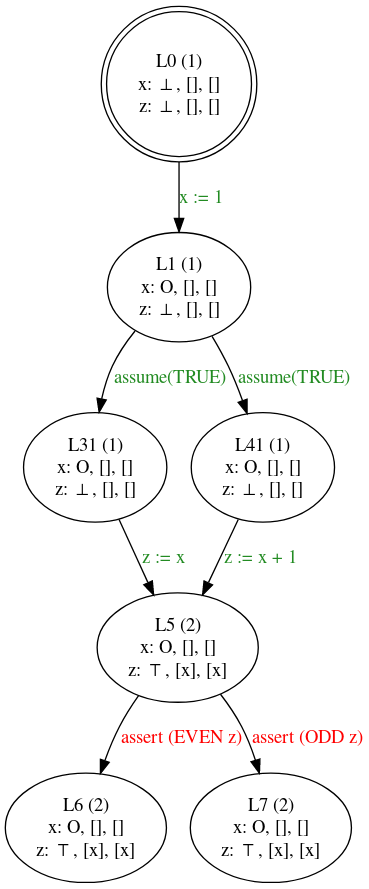
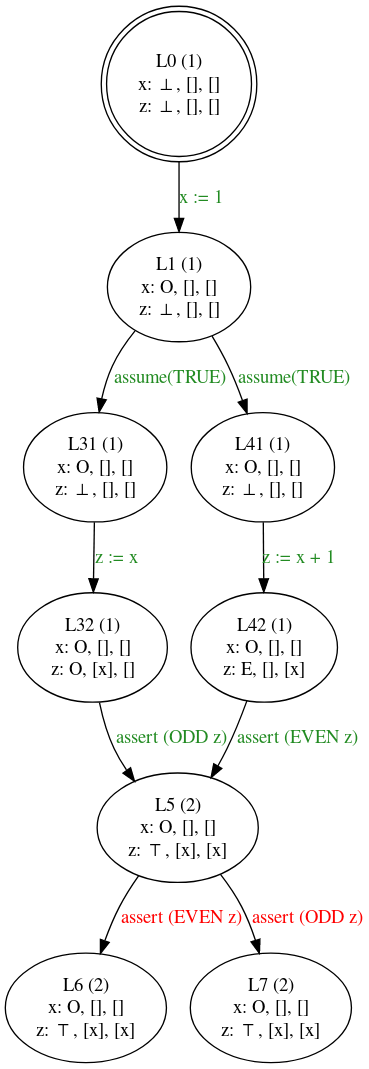
Add parity example 5

diff --git a/analyzenumerical/parity.py b/analyzenumerical/parity.py
@@ -143,6 +143,15 @@ class ParityState(abstract.AbstractState):
 
         return shortcuts.And(*clauses)
 
+    def post_transform(self):
+        # Remove elements both in samepar and antipar
+        for symbol in self.modulo.keys():
+            samepar = self.samepar[symbol]
+            antipar = self.antipar[symbol]
+            common = samepar.intersection(antipar)
+            samepar.difference_update(common)
+            antipar.difference_update(common)
+
 
 @ParityState.transforms(lang_num.VarAssignment)
 def var_assignment(state, statement):

diff --git a/analyzeframework/chaotic.py b/analyzeframework/chaotic.py
@@ -14,6 +14,7 @@ def chaotic_iteration(cfg):
             next_node = edge.successor
             transformed_state = node.state.transform(edge.statement)
             joined_state = next_node.state.join(transformed_state)
+            joined_state.post_transform()
             if next_node.visits == 0 or joined_state != next_node.state:
                 wl.append(next_node)
                 LOG.debug('append node %r',next_node.name)

diff --git a/docs/parity/examples/example5.tex b/docs/parity/examples/example5.tex
@@ -1,0 +1,6 @@
+This example shows that analysis is able to deal with conflict after
+merging branches. In this example, $x$ is known to be odd. Then code
+branches to two paths, one setting $z$ to $x$ and other to $x+1$.
+
+Inside each branch $z$'s parity is known (and is opposite to the other),
+however, when branches merge, the conflict is removed.

diff --git a/docs/parity/examples.tex b/docs/parity/examples.tex
@@ -7,7 +7,9 @@
 \newpage
 \subsection*{Example 3 - Deducing opposite parity}
 \example{parity}{3}
+\newpage
 \subsection*{Example 4 - Transitive relations between variables}
 \example{parity}{4}
+\newpage
 \subsection*{Example 5 - Dealing with conflicts between branches}
 \example{parity}{5}

diff --git a/tests/test_parity.py b/tests/test_parity.py
@@ -42,6 +42,8 @@ from analyzenumerical import parity
         (
             'examples/parity/example5',
             (
+                ('L32', 'L5', True),
+                ('L42', 'L5', True),
                 ('L5', 'L6', False),
                 ('L5', 'L7', False),
             ),

diff --git a/docs/project.tex b/docs/project.tex
@@ -30,7 +30,7 @@
 \lstset{basicstyle=\small}
 \newcommand{\example}[2]{
 \input{#1/examples/example#2.tex}
-\begin{figure}[h]
+\begin{figure}[h!]
 \centering
 \begin{subfigure}{.5\textwidth}
   \centering
